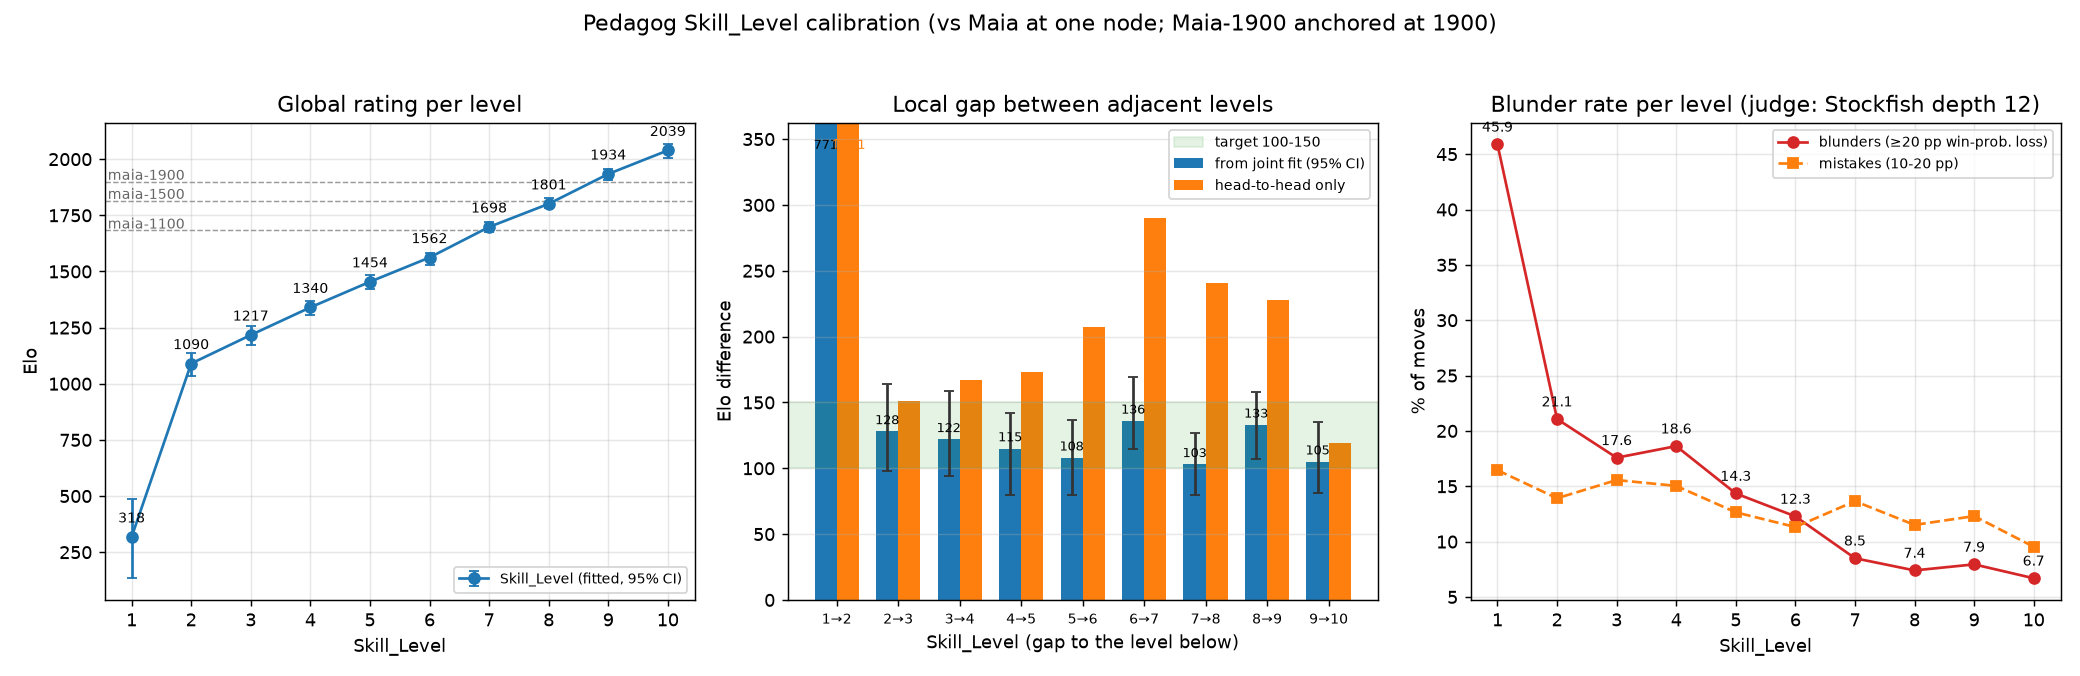
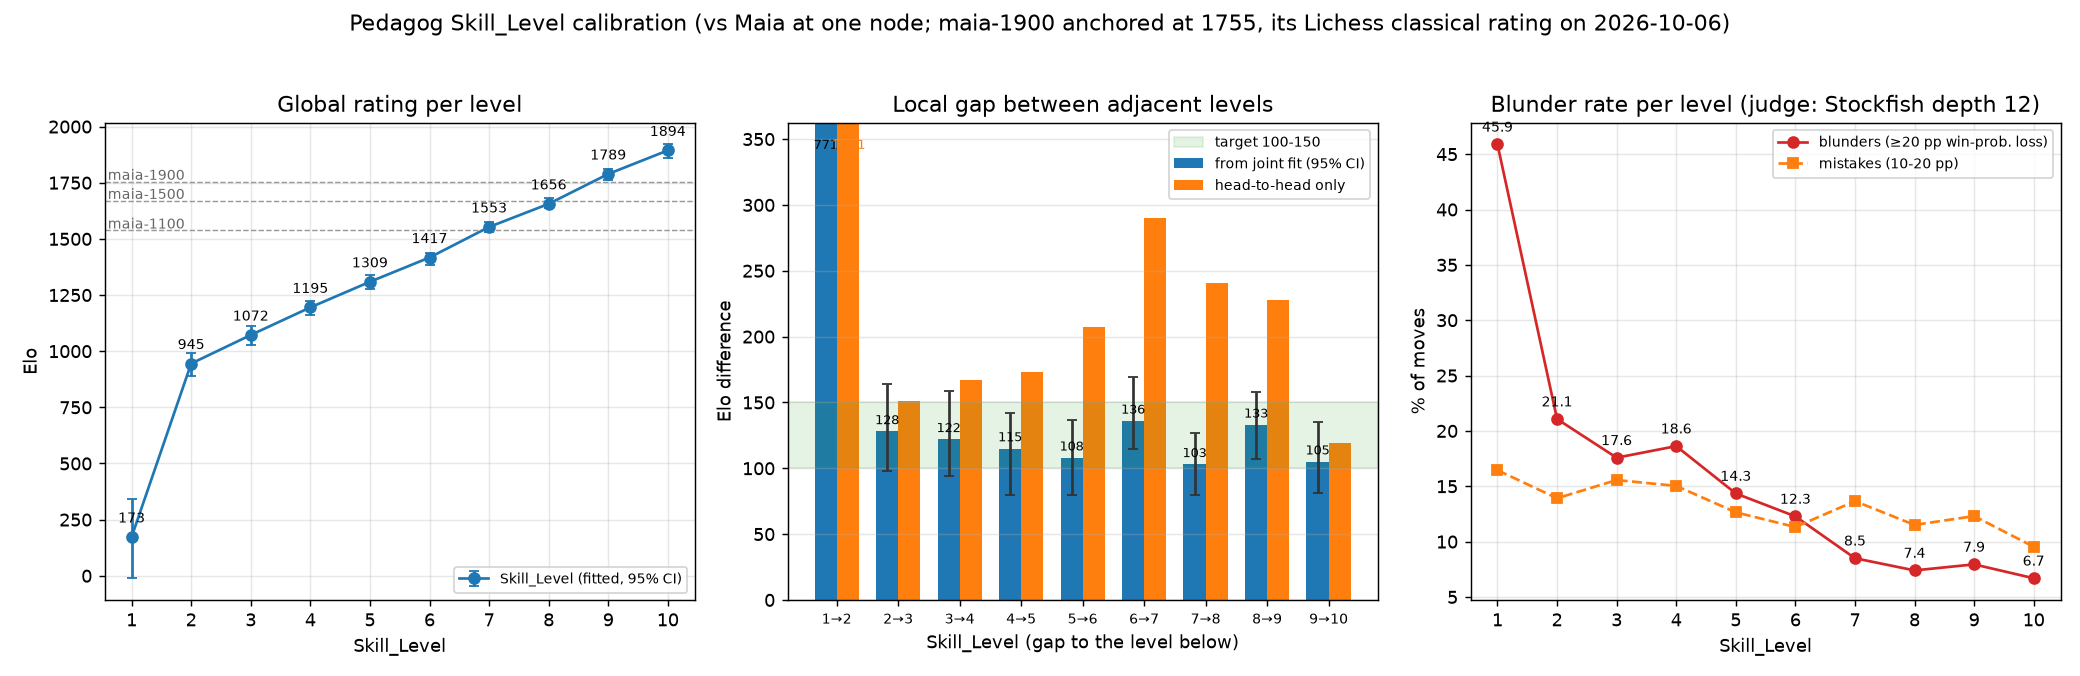
Rescale Skill_Level ratings to the Lichess classical scale
Anchor Maia-1900 at 1755, the Lichess classical rating of the maia9 bot
on 2026-10-06 (RD 45, 141,012 games), instead of its nominal 1900. A pure
offset: every rating moves by -145, no gap changes. Levels 2-10 now read
945, 1072, 1195, 1309, 1417, 1553, 1656, 1789, 1894. The web app shows
the rating next to the level slider.

diff --git a/pedagog.js b/pedagog.js
@@ -17,11 +17,11 @@
    It is deliberately a base engine: iterative deepening, alpha-beta
    and captures-first move ordering, with a plain piece-square
    evaluation, and nothing else. Measured against Maia-1900 it is
-   about 120 Elo stronger than a 1900 player, which is where a first
-   engine should be. Below full strength, Skill_Level weakens it the
-   way Gaia does: it looks less far ahead, judges positions more
-   crudely, misjudges them on purpose, and overlooks some moves
-   entirely (see COLOPHON.md for the measured ladder).
+   about 140 Elo stronger than that network, which puts its full
+   strength around 1900 on the Lichess classical scale. Below full
+   strength, Skill_Level weakens it the way Gaia does: it looks less
+   far ahead, misjudges some positions on purpose, and overlooks some
+   moves entirely (see COLOPHON.md for the measured ladder).
 ================================================================
 
    TABLE OF CONTENTS
@@ -339,19 +339,21 @@ const rung = (depth, deeperPermille, blunderWindow, blunderPermille, vision) =>
   ({ depth, deeperPermille, blunderWindow, blunderPermille, vision });
 
 /* The ladder, from a beginner's opponent to full strength, about 125 Elo a
-   rung as measured against Maia (Maia-1900 = 1900; see COLOPHON.md). */
+   rung as measured against Maia. The ratings are on the Lichess classical
+   scale: Maia-1900's bot (maia9) was rated 1755 there when this was
+   measured, and the fit is anchored on it (see COLOPHON.md). */
 const LADDER = [
   //   depth  deeper  blunder  b/1000  vision             measured Elo
-  null,                                          //  1  random mover    ~320
-  rung(2,     100,     500,     45,     860),    //  2                 1090
-  rung(2,     200,     450,     40,     910),    //  3                 1217
-  rung(2,     400,     400,     35,     945),    //  4                 1340
-  rung(2,     650,     400,     25,     967),    //  5                 1454
-  rung(3,       0,     350,     20,     980),    //  6                 1562
-  rung(3,     650,     300,     15,    1000),    //  7                 1698
-  rung(4,      50,       0,      0,    FULL_VISION),   //  8           1801
-  rung(4,     600,       0,      0,    FULL_VISION),   //  9           1934
-  rung(MAX_PLY, 0,       0,      0,    FULL_VISION),   // 10  full strength  2039
+  null,                                          //  1  random mover    ~170
+  rung(2,     100,     500,     45,     860),    //  2                  945
+  rung(2,     200,     450,     40,     910),    //  3                 1072
+  rung(2,     400,     400,     35,     945),    //  4                 1195
+  rung(2,     650,     400,     25,     967),    //  5                 1309
+  rung(3,       0,     350,     20,     980),    //  6                 1417
+  rung(3,     650,     300,     15,    1000),    //  7                 1553
+  rung(4,      50,       0,      0,    FULL_VISION),   //  8           1656
+  rung(4,     600,       0,      0,    FULL_VISION),   //  9           1789
+  rung(MAX_PLY, 0,       0,      0,    FULL_VISION),   // 10  full strength  1894
 ];
 
 let skillLevel = SKILL_MAX, skill = LADDER[SKILL_MAX - 1];

diff --git a/tools/elo.js b/tools/elo.js
@@ -1,11 +1,12 @@
 // Fit Elo ratings to all games in tools/out/*.pgn (or the PGNs given on the command line).
 //
-//   bun tools/elo.js [--anchor maia-1900=1900] [--only L,maia] [--json docs/skill-curve.json] [files...]
+//   bun tools/elo.js [--anchor maia-1900=1755] [--anchor-note "..."] [--only L,maia] [--json docs/skill-curve.json] [files...]
 //
 // Model: Elo's logistic expectation E = 1 / (1 + 10^(-(Ra - Rb) / 400)); a draw counts half.
 // Ratings are found by iterating each player's rating so its expected total score matches its
 // actual total (a fixed-point Bradley-Terry fit), with the anchor held fixed. Uncertainty comes
-// from a bootstrap over games.
+// from a bootstrap over games. The default anchor is Maia-1900 at 1755, the Lichess classical
+// rating of the bot that runs that network (maia9, RD 45 over 141,012 games) on 2026-10-06.
 
 import { readFileSync, readdirSync, writeFileSync } from "node:fs";
 import { resolve, dirname } from "node:path";
@@ -13,7 +14,8 @@ import { resolve, dirname } from "node:path";
 const here = dirname(Bun.main);
 const args = process.argv.slice(2);
 const opt = (name, def) => { const i = args.indexOf(name); return i >= 0 ? args[i + 1] : def; };
-const [anchorName, anchorElo] = opt("--anchor", "maia-1900=1900").split("=");
+const [anchorName, anchorElo] = opt("--anchor", "maia-1900=1755").split("=");   // maia9's Lichess classical rating, 2026-10-06
+const anchorNote = opt("--anchor-note", "its Lichess classical rating on 2026-10-06");
 const only = opt("--only", "").split(",").filter(Boolean);
 const jsonOut = opt("--json", "");
 let files = args.filter((x, i) => !x.startsWith("--") && !(i > 0 && args[i - 1].startsWith("--")));
@@ -101,4 +103,4 @@ if (gaps.length) {
   console.log("\nadjacent gap          fitted   95% interval   head-to-head (games)");
   for (const g of gaps) console.log(`${(g.from + " -> " + g.to).padEnd(20)} ${String(g.fitted).padStart(6)}   [${g.lo}, ${g.hi}]`.padEnd(44) + `${g.direct ?? "-"} (${g.h2hGames})`);
 }
-if (jsonOut) writeFileSync(resolve(jsonOut), JSON.stringify({ anchor: { [anchorName]: parseFloat(anchorElo) }, ratings: rows, gaps, games: games.length }, null, 2));
+if (jsonOut) writeFileSync(resolve(jsonOut), JSON.stringify({ anchor: { [anchorName]: parseFloat(anchorElo) }, anchor_note: anchorNote, ratings: rows, gaps, games: games.length }, null, 2));

diff --git a/web/app.js b/web/app.js
@@ -7,6 +7,7 @@ const $ = (id) => document.getElementById(id);
 const START_FEN = "rnbqkbnr/pppppppp/8/8/8/8/PPPPPPPP/RNBQKBNR w KQkq - 0 1";
 const FULL_STRENGTH = 10;
 const FULL_STRENGTH_MOVETIME = 1000;     // ms per move at level 10; lower levels are depth-bounded and ignore the clock
+const LEVEL_ELO = [173, 945, 1072, 1195, 1309, 1417, 1553, 1656, 1789, 1894];   // Lichess-classical scale, see COLOPHON.md
 const VALUE = { p: 1, n: 3, b: 3, r: 5, q: 9 };
 
 /* ---- Engine: UCI over postMessage. Falls back to running the engine on the main
@@ -285,7 +286,7 @@ $("mode").onchange = () => {
 };
 $("variant").onchange = () => $("position-row").classList.toggle("hidden", $("variant").value !== "chess960");
 $("random-position").onclick = () => { $("position").value = Math.floor(Math.random() * 960); };
-for (const id of ["level", "level2"]) { $(id).oninput = () => { $(`${id}-out`).textContent = $(id).value; }; $(id).oninput(); }
+for (const id of ["level", "level2"]) { $(id).oninput = () => { const v = parseInt($(id).value); $(`${id}-out`).textContent = `${v} (≈${LEVEL_ELO[v - 1]})`; }; $(id).oninput(); }
 $("new-game").onclick = newGame;
 $("flip").onclick = () => { cg.toggleOrientation(); refreshBars(); };
 $("pause").onclick = () => { paused = !paused; $("pause").textContent = paused ? "Resume" : "Pause"; if (!paused) { tickFrom = performance.now(); scheduleBot(); } else refreshBars(); };

diff --git a/index.html b/index.html
@@ -105,8 +105,9 @@
     </div>
 
     <p class="about">
-      Pedagog is a single-file pedagogical chess engine; level 10 is its full strength
-      (about 120 Elo above Maia-1900 at one node), level 1 plays random moves.
+      Pedagog is a single-file pedagogical chess engine. Levels are calibrated against the
+      Maia bots and read as Lichess classical ratings: level 2 ≈ 950, level 10 (full
+      strength) ≈ 1900; level 1 plays random moves.
       Board by <a href="https://github.com/lichess-org/chessground">chessground</a> (GPL-3),
       rules by <a href="https://github.com/shaack/cm-chess">cm-chess</a> (MIT).
       Works offline once loaded.

diff --git a/tools/plot.py b/tools/plot.py
@@ -32,7 +32,9 @@ def main():
     maias = [r for r in elo["ratings"] if r["player"].startswith("maia")]
 
     fig, axes = plt.subplots(1, 3, figsize=(16, 5.2))
-    fig.suptitle("Pedagog Skill_Level calibration (vs Maia at one node; Maia-1900 anchored at 1900)", fontsize=12)
+    anchor_name, anchor_elo = next(iter(elo["anchor"].items()))
+    note = elo.get("anchor_note", "")
+    fig.suptitle(f"Pedagog Skill_Level calibration (vs Maia at one node; {anchor_name} anchored at {anchor_elo:.0f}{', ' + note if note else ''})", fontsize=12)
 
     # --- Panel 1: global Elo per level
     ax = axes[0]

diff --git a/COLOPHON.md b/COLOPHON.md
@@ -46,30 +46,35 @@ there (as in Gaia; variety comes from the opening book).
 Method: every level played 300 games against the level below and 300 against
 each of Maia-1100 and Maia-1900 (some also Maia-1500), level 10 at 10+0.1,
 all others depth-bounded; `tools/elo.js` fits one rating to all results
-(Elo logistic model, draws as half points, Maia-1900 anchored at 1900) with
-bootstrap intervals. Nine tuning rounds; the final data are in
-`docs/skill-curve.json`. Note that the three Maias span only ~220 Elo against
-engines (1683 / 1815 / 1900 here), whatever their human-pool labels say.
+(Elo logistic model, draws as half points) with bootstrap intervals. The
+scale is anchored on **Maia-1900 = 1755**, the Lichess classical rating of
+the bot that runs that network (`maia9`: 1755, RD 45, 141,012 games on
+2026-10-06), so the numbers below read as Lichess classical ratings. Nine
+tuning rounds; the final data are in `docs/skill-curve.json`. Note that the
+three Maias span only ~220 Elo against engines (1538 / 1670 / 1755 here),
+whatever their training labels say.
 
 | level | depth | +1 ply share | blunder | vision | **Elo** (95 %) | gap to level below (fit) | head-to-head |
 |---|---|---|---|---|---|---|---|
-| 1 | random mover, mates in one | | | | **318** [134, 485] | — | — |
-| 2 | 2 | 10 % | 500 cp @ 4.5 % | 860 | **1090** [1035, 1138] | 771 | 771 |
-| 3 | 2 | 20 % | 450 cp @ 4.0 % | 910 | **1217** [1173, 1256] | 128 | 151 |
-| 4 | 2 | 40 % | 400 cp @ 3.5 % | 945 | **1340** [1307, 1369] | 122 | 167 |
-| 5 | 2 | 65 % | 400 cp @ 2.5 % | 967 | **1454** [1423, 1483] | 115 | 173 |
-| 6 | 3 | — | 350 cp @ 2.0 % | 980 | **1562** [1527, 1584] | 108 | 207 |
-| 7 | 3 | 65 % | 300 cp @ 1.5 % | 1000 | **1698** [1674, 1721] | 136 | 290 |
-| 8 | 4 | 5 % | — | full | **1801** [1781, 1825] | 103 | 241 |
-| 9 | 4 | 60 % | — | full | **1934** [1907, 1958] | 133 | 228 |
-| 10 | full strength (clock) | | — | full | **2039** [2003, 2066] | 105 | 119 |
+| 1 | random mover, mates in one | | | | **173** [−11, 340] | — | — |
+| 2 | 2 | 10 % | 500 cp @ 4.5 % | 860 | **945** [890, 993] | 771 | 771 |
+| 3 | 2 | 20 % | 450 cp @ 4.0 % | 910 | **1072** [1028, 1111] | 128 | 151 |
+| 4 | 2 | 40 % | 400 cp @ 3.5 % | 945 | **1195** [1162, 1224] | 122 | 167 |
+| 5 | 2 | 65 % | 400 cp @ 2.5 % | 967 | **1309** [1278, 1338] | 115 | 173 |
+| 6 | 3 | — | 350 cp @ 2.0 % | 980 | **1417** [1382, 1439] | 108 | 207 |
+| 7 | 3 | 65 % | 300 cp @ 1.5 % | 1000 | **1553** [1529, 1576] | 136 | 290 |
+| 8 | 4 | 5 % | — | full | **1656** [1636, 1680] | 103 | 241 |
+| 9 | 4 | 60 % | — | full | **1789** [1762, 1813] | 133 | 228 |
+| 10 | full strength (clock) | | — | full | **1894** [1858, 1921] | 105 | 119 |
 
 All eight gaps between levels 2 and 10 fall in the requested 100–150 band on
 the joint fit (the "global" scale). Head-to-head gaps between adjacent levels
 (the "local" measure) are systematically larger — two engines with the same
 blind spots exaggerate their difference — which is why the ladder was tuned
 on the joint fit. The top is structurally tight: pure depth 5 is already full
-strength here, so levels 7–10 have to share about 340 Elo.
+strength here, so levels 7–10 have to share about 340 Elo. (The ladder was
+tuned with Maia-1900 anchored at its nominal 1900; re-anchoring to 1755 only
+shifts every rating by −145 and changes no gap.)
 
 ![skill curve](docs/skill-curve.png)
 
